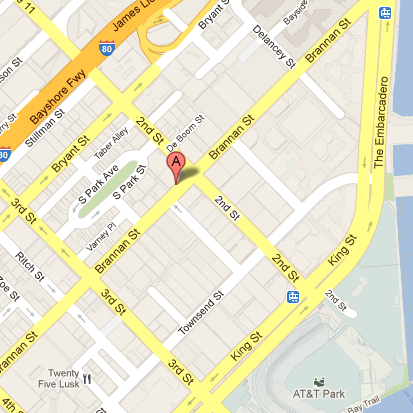
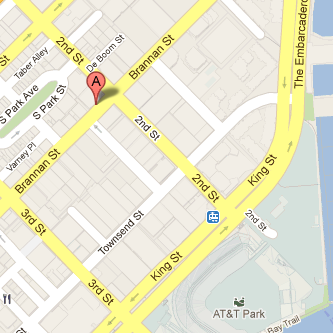
Added stroke to map and resized it

diff --git a/css/style.css b/css/style.css
@@ -242,8 +242,9 @@ figure {
       margin: auto; }
       .siteContent #contactpage #map #googlemap {
         float: left;
-        height: 315px;
-        width: 315px;
+        height: 300px;
+        width: 300px;
+        border: 5px solid #bc2431;
         background: url(../img/gmap.png);
         background-size: cover;
         -webkit-background-size: cover;

diff --git a/sass/style.scss b/sass/style.scss
@@ -270,8 +270,9 @@ figure {
 			margin:auto;
 			#googlemap {
 				float:left;
-				height:315px;
-				width:315px;
+				height:300px;
+				width:300px;
+				border: 5px solid $thisisred;
 				background:url(../img/gmap.png);
 				background-size:cover;
 				-webkit-background-size:cover;
